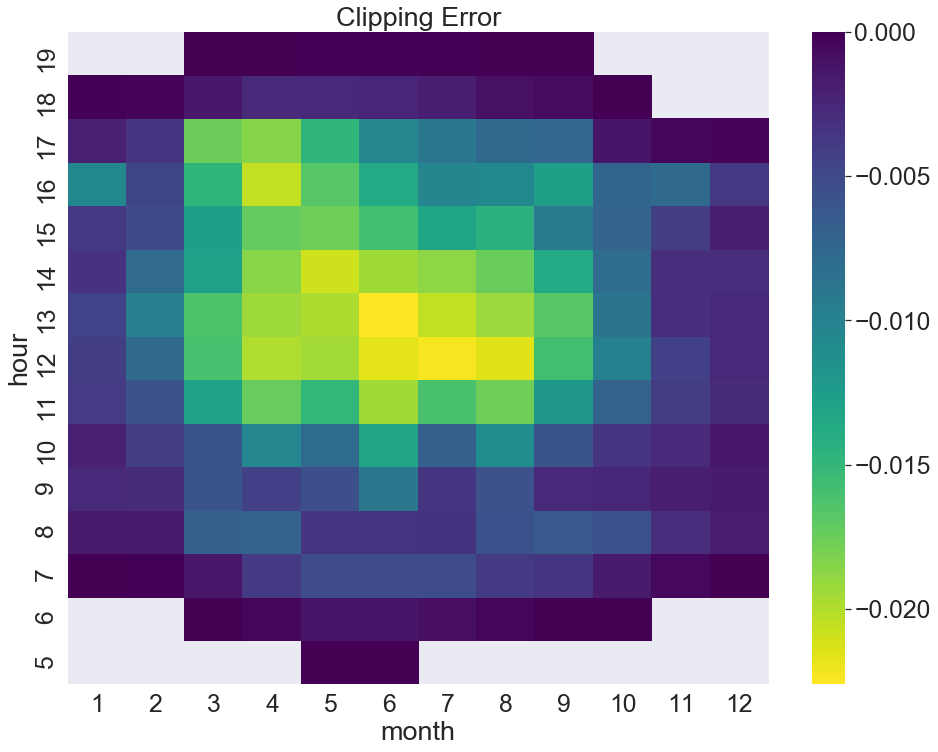
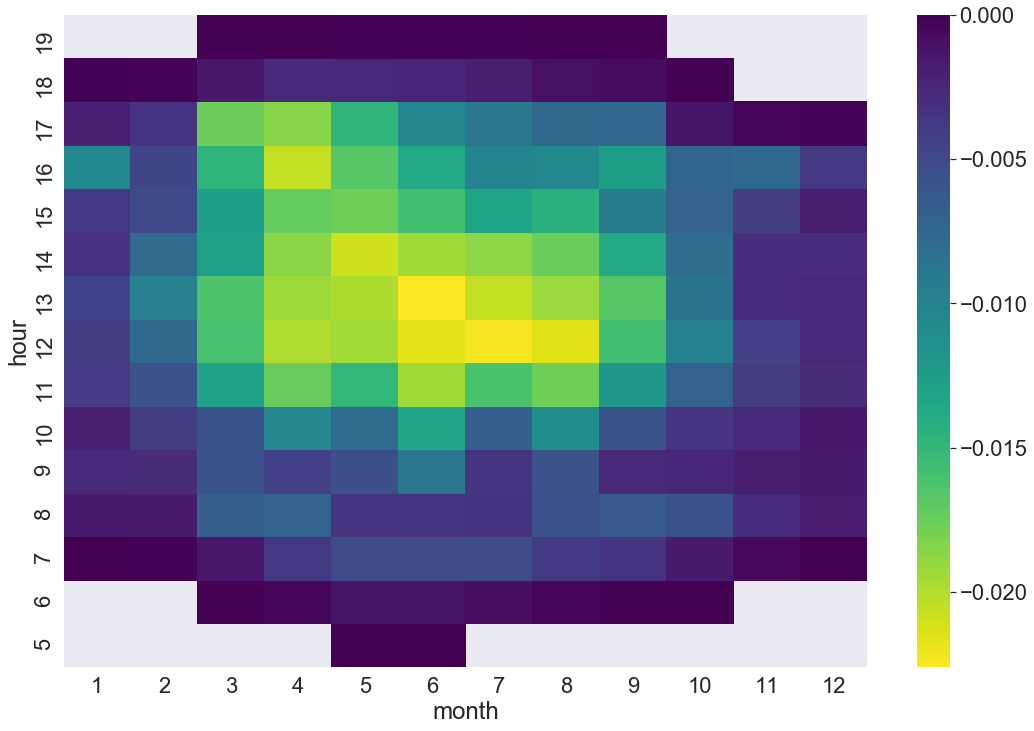
Abhi updated with new figures

diff --git a/clipping-loss-validation.tex b/clipping-loss-validation.tex
@@ -29,7 +29,7 @@
 \maketitle
 
 \begin{abstract}
-Under-performance of solar PV systems is an important issue that increases risks for stakeholders like developers, investors and operators. Recently some attention has focused on underestimation of inverter clipping losses as a possible source of over-prediction where sub-hourly solar variability is high. Several models and data sets have been analyzed over the past few years, with the aim of quantifying, predicting, and correcting underestimated clipping loss errors for sites with high DC/AC ratio and solar variability. In this report, we compare operational data with a machine learning model developed at NREL to correct energy assessments based on hourly weather. In addition, the model is expanded to include site meta-data like DC/AC ratio as factors, so that the model is flexible enough to be used for estimating clipping loss error in energy assessments for a wide variety of sites. 
+Under-performance of solar PV systems is an important issue that increases risks for stakeholders like developers, investors and operators. Recently some attention has focused on underestimation of inverter clipping losses as a possible source of over-prediction where sub-hourly solar variability is high. Several models and data sets have been analyzed over the past few years, with the aim of quantifying, predicting, and correcting underestimated clipping loss errors for sites with high DC/AC ratio and solar variability. In this report, we compare operational data with a machine learning model developed at NREL to correct energy assessments based on hourly weather. In addition, the model is expanded to include site-specific information such as DC/AC ratio and modeled PV power as factors, so that the model is flexible enough to be used for estimating clipping loss error in energy assessments for a wide variety of sites. 
 \end{abstract}
 
 \begin{IEEEkeywords}
@@ -37,7 +37,7 @@ inverter, clipping, solar, irradiance, variability, performance, modeling, TMY
 \end{IEEEkeywords}
 
 \section{Introduction}
-In their "2020 Solar Risk Assessment" \cite{Matsui2020}, kWh Analytics warned that systematic underproduction across the industry exposes investors to increased risk. DNV found that a sample of 39 projects from 2019 were under-performing compared to their pre-construction energy assessments by up to 3\% on average as shown in Fig.~\ref{fig:project-underperformance}. NextEra reported that, "Sub-hourly solar resource variability impacts actual energy production by approximately 1-4\%." Cormode, \textit{et al.}, explained that energy assessments based on hourly weather, like typical meteorological year (TMY) data-sets, underestimate inverter clipping losses by up to 5\% for projects with intra-hourly solar variability, especially for high DC/AC ratios \cite{Cormode2019}. This is demonstrated in Fig.~\ref{fig:irradiance-and-power}, which shows irradiance and power output at 1-minute and 1-hour resolution in the top and bottom panels respectively. On July 10th, there is little intra-hour variability, a mostly clear day, and hourly and sub-hourly simulations are in close agreement. In contrast, July 13th has much higher solar variability, but no clipping is observed in the 1-hour output. However, the 1-minute resolution shows intermittent clipping all day long, indicating that not all of the available irradiance is used by the system, and the hourly simulation underestimates inverter clipping \cite{Kharait}.
+In their report "2020 Solar Risk Assessment" \cite{Matsui2020}, kWh Analytics warned that systematic underproduction across the industry exposes investors to increased risk. DNV found that a sample of 39 projects from 2019 were under-performing compared to their pre-construction energy assessments by up to 3\% on average, as shown in Fig.~\ref{fig:project-underperformance}. NextEra reported that, "sub-hourly solar resource variability impacts actual energy production by approximately 1-4\%." Cormode, \textit{et al.}, explained that energy assessments based on hourly weather, like typical meteorological year (TMY) data-sets, underestimate inverter clipping losses by up to 5\% for projects with intra-hourly solar variability, especially for high DC/AC ratios \cite{Cormode2019}. This is demonstrated in Fig.~\ref{fig:irradiance-and-power}, which shows irradiance and power output at 1-minute and 1-hour resolution in the top and bottom panels, respectively. On July 10th, there is little intra-hour variability, indicative of a mostly clear day where hourly and sub-hourly simulations are in close agreement. In contrast, July 13th has much higher solar variability, but no clipping is observed in the 1-hour output. However, the 1-minute resolution shows intermittent clipping all day long, indicating that not all of the available irradiance is used by the system, and the hourly simulations underestimate inverter clipping \cite{Kharait}.
 
 \begin{figure}[htbp]
 \centerline{\includegraphics[width=9cm]{fig1.png}}
@@ -52,7 +52,7 @@ In their "2020 Solar Risk Assessment" \cite{Matsui2020}, kWh Analytics warned th
 \label{fig:irradiance-and-power}
 \end{figure}
 
-Several methods have been proposed to correct clipping loss errors in hourly predictions \cite{Cormode2019,Kharait,Anderson2020,Bradford}, but only NextEra validated their method with operational data \cite{Bradford}. In this report, we adopt the NREL machine learning-based model \cite{Anderson2020} to predict clipping loss corrections and apply them to hourly energy assessments. The adjusted energy assessment is then validated against operational data from the same site, and we report on the average and distribution of validation errors.  We have obtained data from seven operating PV systems in different climates and with a range of DC/AC ratios. In this paper, we will present the first of these systems, outline our method, and present preliminary results. The final paper will present validation results from all seven sites plus the NIST ground array \cite{Boyd2017b} as a benchmark.
+Several methods have been proposed to correct clipping loss error in hourly predictions \cite{Cormode2019,Kharait,Anderson2020,Bradford}, but only NextEra validated their method with operational data \cite{Bradford}. In this report, we adopt the NREL machine learning-based model \cite{Anderson2020} to predict clipping loss corrections and apply them to hourly energy assessments. The adjusted energy assessment is then validated against operational data from the same site, and we report on the average and distribution of validation errors.  We have obtained data from seven operating PV systems in different climates and with a range of DC/AC ratios. In this paper, we will present the first of these systems, outline our method, and present preliminary results. The final paper will present validation results from all seven sites plus the NIST ground array \cite{Boyd2017b} as a benchmark.
 
 \section{Methods}
 
@@ -62,29 +62,24 @@ The machine learning (ML) model developed at NREL has already been described in 
 
 \begin{figure}[htbp]
 \centerline{\includegraphics[width=9cm]{DCS_VI_heatmap.png}}
-\caption{Variability Index calculated at site A}
-\label{fig:irradiance-and-power}
+\caption{Average variability index calculated at site A. The variability index is calculated and aggregated at a 30-min interval using on-site POA measured at a 1-min time resolution.}
+\label{fig:DCS-VI}
 \end{figure}
 
 \begin{figure}[htbp]
-\centerline{\includegraphics[width=9cm]{DCS_VI_heatmap.png}}
-\caption{Variability Index calculated at site A}
+\centerline{\includegraphics[width=9cm]{DCS_CLEC_heatmap.png}}
+\caption{Average clipping error correction calculated for site A using the ML model. The model predicts clipping error correction factor for each 30-min interval.}
 \label{fig:irradiance-and-power}
 \end{figure}
 
 \subsection{Validation}
 A challenge in validating the clipping loss correction model is the lack of quality high-frequency irradiance measurements that are co-located with operational PV systems. Therefore this model differs from traditional approaches for model training and validation because it relies on SURFRAD measurements and SAM simulated data to train the model, but uses operational data from different sites for validation. So no holdout methods are required in validating this model because the training and validation data sets are already independent. The downside of this method is that any systematic biases in SAM are introduced into the clipping loss correction model. In future work, if a large population of high-frequency irradiance and co-located operational data are obtained, the model can be retrained holding out a subset of the data for validation. This procedure would have the benefit of incorporating any physical effects that are not captured by SAM.
 
-\begin{figure}[htbp]
-\centerline{\includegraphics[width=9cm]{DCS_Inv_vs_POA_with_VI.png}}
-\caption{Power output of a 1000 kW inverter at site A}
-\label{fig:irradiance-and-power}
-\end{figure}
 
 \begin{figure}[htbp]
-\centerline{\includegraphics[width=9cm]{DCS_ModelBias_vs_POA_with_VI.png}}
-\caption{Model bias corresponding to the above inverter}
-\label{fig:irradiance-and-power}
+\centerline{\includegraphics[width=9cm]{DCS_Inv_ModelBias_POA_with_VI.png}}
+\caption{Inverter power and bias in the modeled power for a 1000 kW rated inverter at site A. Lower power and higher model bias are observed at higher variability index}
+\label{fig:inverter-power-model-bias}
 \end{figure}
 
 Quality of operational datasets is vital to avoid disruption of validation. Data points in the operational dataset related to plant sub-performance instances are considered to be outliers from the validation's standpoint and need to be removed. For this validation effort, data points where the difference between actual and simulated power is more than 50\% were removed. 
@@ -92,7 +87,6 @@ Quality of operational datasets is vital to avoid disruption of validation. Data
 
 Several metrics are used to measure the reduction in clipping loss errors from the hourly energy assessment, and identify if there are any unknown factors that are systematically affecting the results.
 
-\color{red} Show that the relation among model bias, poa and VI
 \begin{itemize}
 \item \textbf{Bias}: delta between the corrected energy assessment predictions and the measured operational data, so positive bias means over-predicted energy output 
 \begin{equation}
@@ -104,6 +98,32 @@ Where $E$ is the energy output.
 \mathit{MBE}=\frac{\sum_{n=1}^N{\Delta_n}}{N}\label{eq:mbe}
 \end{equation}
 Where $n$ is a single timestep, and $N$ is the total period of time. For example, with hourly timesteps, $N=8760\text{[hrs]}$, the number of timesteps in a typical annual energy assessment.
+
+
+\begin{figure}[htbp]
+\centerline{\includegraphics[width=9cm]{DCS_ModelBias_CDF.png}}
+\caption{CDF of Model bias for site A}
+\label{fig:irradiance-and-power}
+\end{figure}
+
+\begin{figure}[htbp]
+\centerline{\includegraphics[width=9cm]{PAW_ModelBias_CDF.png}}
+\caption{CDF of Model bias for site B}
+\label{fig:irradiance-and-power}
+\end{figure}
+
+\begin{figure}[htbp]
+\centerline{\includegraphics[width=9cm]{DCS_ModelBias_breakdown_CDF.png}}
+\caption{Breakdown of bias at different variability for site A}
+\label{fig:irradiance-and-power}
+\end{figure}
+
+\begin{figure}[htbp]
+\centerline{\includegraphics[width=9cm]{PAW_ModelBias_breakdown_CDF.png}}
+\caption{Breakdown of bias at different variability for site B}
+\label{fig:irradiance-and-power}
+\end{figure}
+
 \item \textbf{Root mean squared error}: squares of the bias are positive, removing any cancellation of opposing errors, and therefore gives a measure of the width of the error distribution
 \begin{equation}
 \mathit{RMSE}=\sqrt{\frac{\sum_{n=1}^N{\Delta_n^2}}{N}}\label{eq:rmse}
